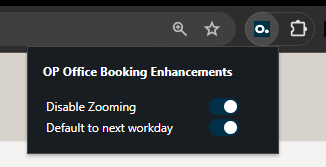
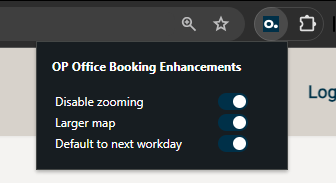
Add larger map enhancement

diff --git a/popup.js b/popup.js
@@ -1,6 +1,9 @@
 const toggleButtonNoZoom = document.getElementById("toggleNoZoom");
 const sliderNoZoom = document.getElementById("sliderElemNoZoom");
 
+const toggleButtonLargeMap = document.getElementById("toggleLargeMap");
+const sliderLargeMap = document.getElementById("sliderElemLargeMap");
+
 const toggleButtonDefaultDay = document.getElementById(
   "toggleEnableDefaultDay"
 );
@@ -9,6 +12,11 @@ const sliderDefaultDay = document.getElementById("sliderElemDefaultDay");
 const updateSliderNoZoom = (enableNoZoom) => {
   // Update the state of the no zoom slider button
   toggleButtonNoZoom.checked = enableNoZoom;
+};
+
+const updateSliderLargeMap = (enableLargeMap) => {
+  // Update the state of the no zoom slider button
+  toggleButtonLargeMap.checked = enableLargeMap;
 };
 
 const updateSliderDefaultDay = (enableDefaultDay) => {
@@ -20,6 +28,9 @@ const updateSliderDefaultDay = (enableDefaultDay) => {
 chrome.storage.sync.get("enableNoZoom", ({ enableNoZoom }) => {
   updateSliderNoZoom(enableNoZoom);
 });
+chrome.storage.sync.get("enableLargeMap", ({ enableLargeMap }) => {
+  updateSliderLargeMap(enableLargeMap);
+});
 chrome.storage.sync.get("enableDefaultDay", ({ enableDefaultDay }) => {
   updateSliderDefaultDay(enableDefaultDay);
 });
@@ -29,6 +40,7 @@ chrome.storage.sync.get("enableDefaultDay", ({ enableDefaultDay }) => {
 // A small delay was therefore added.
 setTimeout(() => {
   sliderNoZoom.classList.add("sliderAnim");
+  sliderLargeMap.classList.add("sliderAnim");
   sliderDefaultDay.classList.add("sliderAnim");
 }, 100);
 
@@ -39,6 +51,13 @@ toggleButtonNoZoom.addEventListener("click", async () => {
     enableNoZoom = !enableNoZoom;
     chrome.storage.sync.set({ enableNoZoom });
     updateSliderNoZoom(enableNoZoom);
+  });
+});
+toggleButtonLargeMap.addEventListener("click", async () => {
+  chrome.storage.sync.get("enableLargeMap", ({ enableLargeMap }) => {
+    enableLargeMap = !enableLargeMap;
+    chrome.storage.sync.set({ enableLargeMap });
+    updateSliderLargeMap(enableLargeMap);
   });
 });
 toggleButtonDefaultDay.addEventListener("click", async () => {

diff --git a/inject.js b/inject.js
@@ -18,6 +18,11 @@ const handleUpdateNoZoom = (enableNoZoom) => {
     injectScript(chrome.runtime.getURL("applyNoZoom.js"), "body");
 };
 
+const handleUpdateLargeMap = (enableLargeMap) => {
+  if (enableLargeMap)
+    injectScript(chrome.runtime.getURL("applyLargeMap.js"), "body");
+};
+
 const handleUpdateDefaultDay = (enableDefaultDay) => {
   if (enableDefaultDay)
     injectScript(chrome.runtime.getURL("applyDefaultDay.js"), "body");
@@ -27,6 +32,9 @@ const handleUpdateDefaultDay = (enableDefaultDay) => {
 chrome.storage.sync.get("enableNoZoom", ({ enableNoZoom }) => {
   handleUpdateNoZoom(enableNoZoom);
 });
+chrome.storage.sync.get("enableLargeMap", ({ enableLargeMap }) => {
+  handleUpdateLargeMap(enableLargeMap);
+});
 chrome.storage.sync.get("enableDefaultDay", ({ enableDefaultDay }) => {
   handleUpdateDefaultDay(enableDefaultDay);
 });
@@ -35,6 +43,8 @@ chrome.storage.onChanged.addListener(function (changes, namespace) {
   for (let [key, { _oldValue, newValue }] of Object.entries(changes)) {
     if (key == "enableNoZoom") {
       handleUpdateNoZoom(newValue);
+    } else if (key == "enableLargeMap") {
+      handleUpdateLargeMap(newValue);
     } else if (key == "enableDefaultDay") {
       handleUpdateDefaultDay(newValue);
     }

diff --git a/popup.html b/popup.html
@@ -7,18 +7,31 @@
   <body>
     <div>
       <div>
-        <h4>OP Office Booking Enhancements</h4>
+        <h4>OP Office Booking Enhancement Suite</h4>
       </div>
       <table>
         <tr>
           <div>
             <td>
-              <span>Disable Zooming</span>
+              <span>Disable zooming</span>
             </td>
             <td>
               <label class="switch">
                 <input id="toggleNoZoom" type="checkbox" />
                 <span id="sliderElemNoZoom" class="slider round"></span>
+              </label>
+            </td>
+          </div>
+        </tr>
+        <tr>
+          <div>
+            <td>
+              <span>Larger map</span>
+            </td>
+            <td>
+              <label class="switch">
+                <input id="toggleLargeMap" type="checkbox" />
+                <span id="sliderElemLargeMap" class="slider round"></span>
               </label>
             </td>
           </div>

diff --git a/applyNoZoom.js b/applyNoZoom.js
@@ -1,6 +1,6 @@
 // This code is run in the terminal of the website to remove zoom buttons
 
-const zoomRepeater = setInterval(() => {
+largeMapRepeater = setInterval(() => {
   try {
     console.log("Trying to remove zoom");
 
@@ -38,15 +38,11 @@ const zoomRepeater = setInterval(() => {
     Array.from(seats).forEach((seat) => {
       seat.classList = [""];
     });
-
-    // Make the office map larger
-    let main = document.querySelector('[height="500"]');
-    main.style.height = "800";
   } catch (error) {
     console.log("Applying no zoom failed. Retrying");
   }
 }, 100);
 
 setTimeout(() => {
-  clearInterval(zoomRepeater);
+  clearInterval(largeMapRepeater);
 }, 2000);

diff --git a/applyLargeMap.js b/applyLargeMap.js
@@ -1,0 +1,16 @@
+// This code is run in the terminal of the website to remove zoom buttons
+
+zoomRepeater = setInterval(() => {
+  try {
+    // Make the office map larger
+    console.log("Trying to increase map size");
+    let main = document.querySelector('[height="500"]');
+    main.style.height = "800";
+  } catch (error) {
+    console.log("Applying no zoom failed. Retrying");
+  }
+}, 100);
+
+setTimeout(() => {
+  clearInterval(zoomRepeater);
+}, 2000);

diff --git a/applyDefaultDay.js b/applyDefaultDay.js
@@ -1,8 +1,8 @@
 // This code is run in the terminal of the website to set selected day to next workday
 
-let weekdays = ["Mandag", "Tirsdag", "Onsdag", "Torsdag", "Fredag"];
+weekdays = ["Mandag", "Tirsdag", "Onsdag", "Torsdag", "Fredag"];
 
-const dayRepeater = setInterval(() => {
+dayRepeater = setInterval(() => {
   try {
     console.log("Trying to set selected day");
 

diff --git a/background.js b/background.js
@@ -3,7 +3,9 @@
 // Set enabled states to true
 chrome.runtime.onInstalled.addListener(() => {
   let enableNoZoom = true;
+  let enableLargeMap = true;
   let enableDefaultDay = true;
   chrome.storage.sync.set({ enableNoZoom });
+  chrome.storage.sync.set({ enableLargeMap });
   chrome.storage.sync.set({ enableDefaultDay });
 });

diff --git a/README.md b/README.md
@@ -1,4 +1,4 @@
-# OP Office Booking Enhancements Chrome Extension <!-- omit in toc -->
+# OP Office Booking Enhancement Suite <!-- omit in toc -->
 
 - [Description](#description)
 - [Installation](#installation)
@@ -18,7 +18,7 @@ The extension is written for Google Chrome using manifest version 3, and the fil
 is as follows:
 
 ```
-op-office-booking-screen-enhancements/
+op-office-booking-screen-enhancement-suite/
 ├── images/
 │   ├── icon16.png
 │   ├── icon32.png
@@ -26,6 +26,7 @@ op-office-booking-screen-enhancements/
 │   ├── icon128.png
 │   └── thumbnail.png
 ├── applyNoZoom.js ............... Disable zoom and show whole office at once
+├── applyLargeMap.js ............. Increase size of the office map
 ├── applyDefaultDay.js ........... Set default day to next workday
 ├── background.js ................ Runs when extension is installed
 ├── button.css ................... Styling of extension menu
@@ -47,7 +48,7 @@ op-office-booking-screen-enhancements/
    A new menu will appear at the top of the screen.
 6. Click on _Load unpacked_ at the top and navigate to the location you extracted the extension to.
 7. Finally, select the folder containing `manifest.json` (most likely the folder named
-   `op-office-booking-enhancements`) to install the extension.
+   `op-office-booking-enhancement-suite`) to install the extension.
 
 ## Usage
 
@@ -67,6 +68,7 @@ nothing will happen when opening the office booking website.
 
 - **Disable zooming:** Disables the zoom functionality and shows all available seats in the
   office at once.
+- **Larger map:** Makes the office map a little larger. (May be unstable on smaller screens)
 - **Default to next workday:** Automatically select the next workday when loading the page.
 
 ## Download and Install
